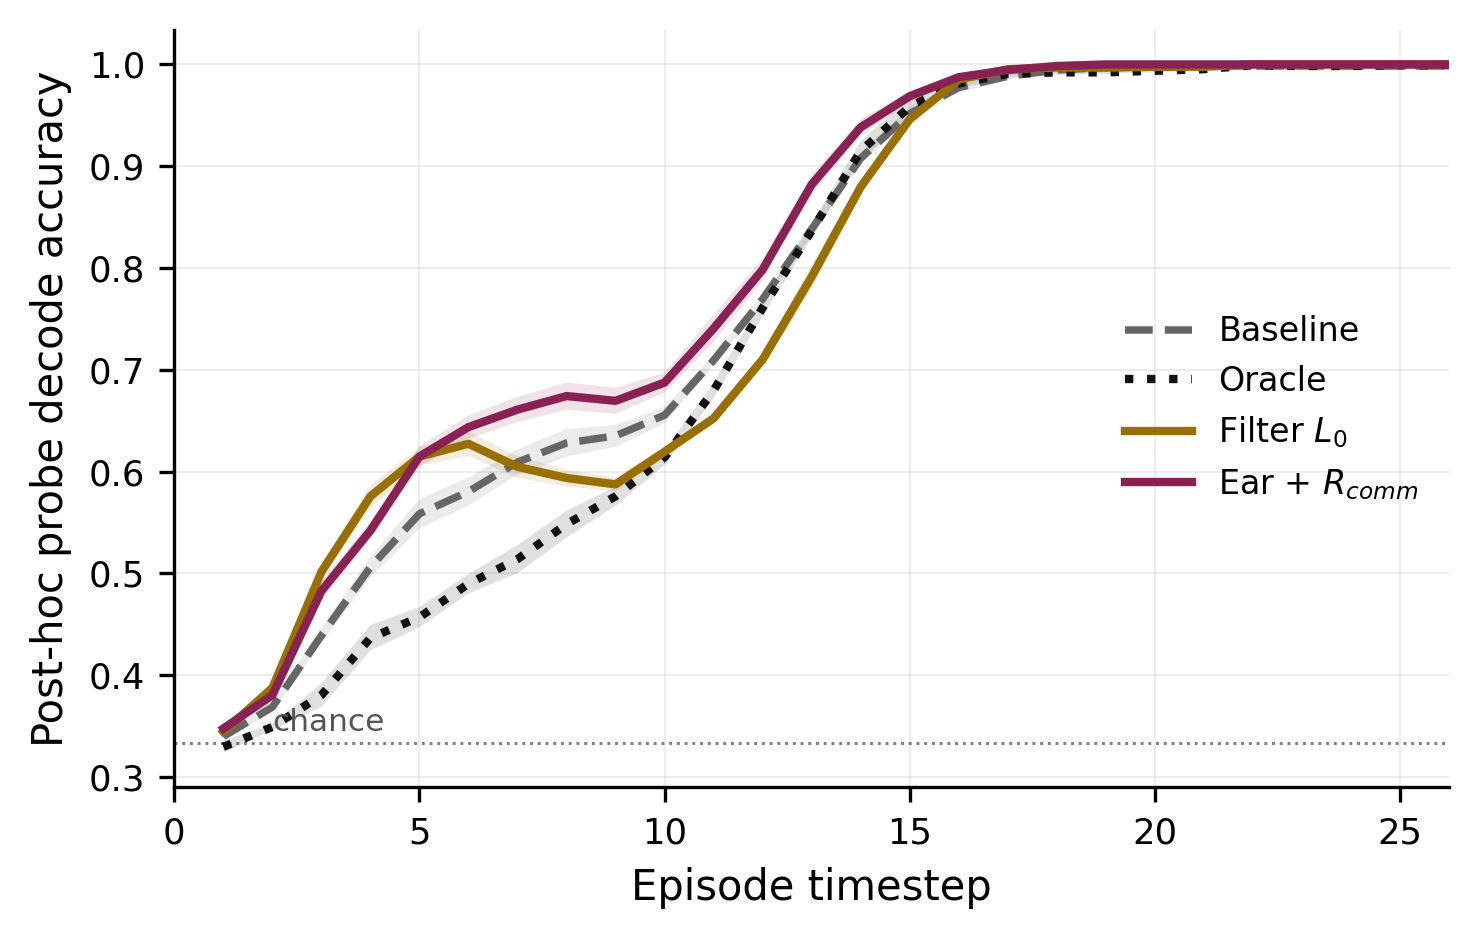
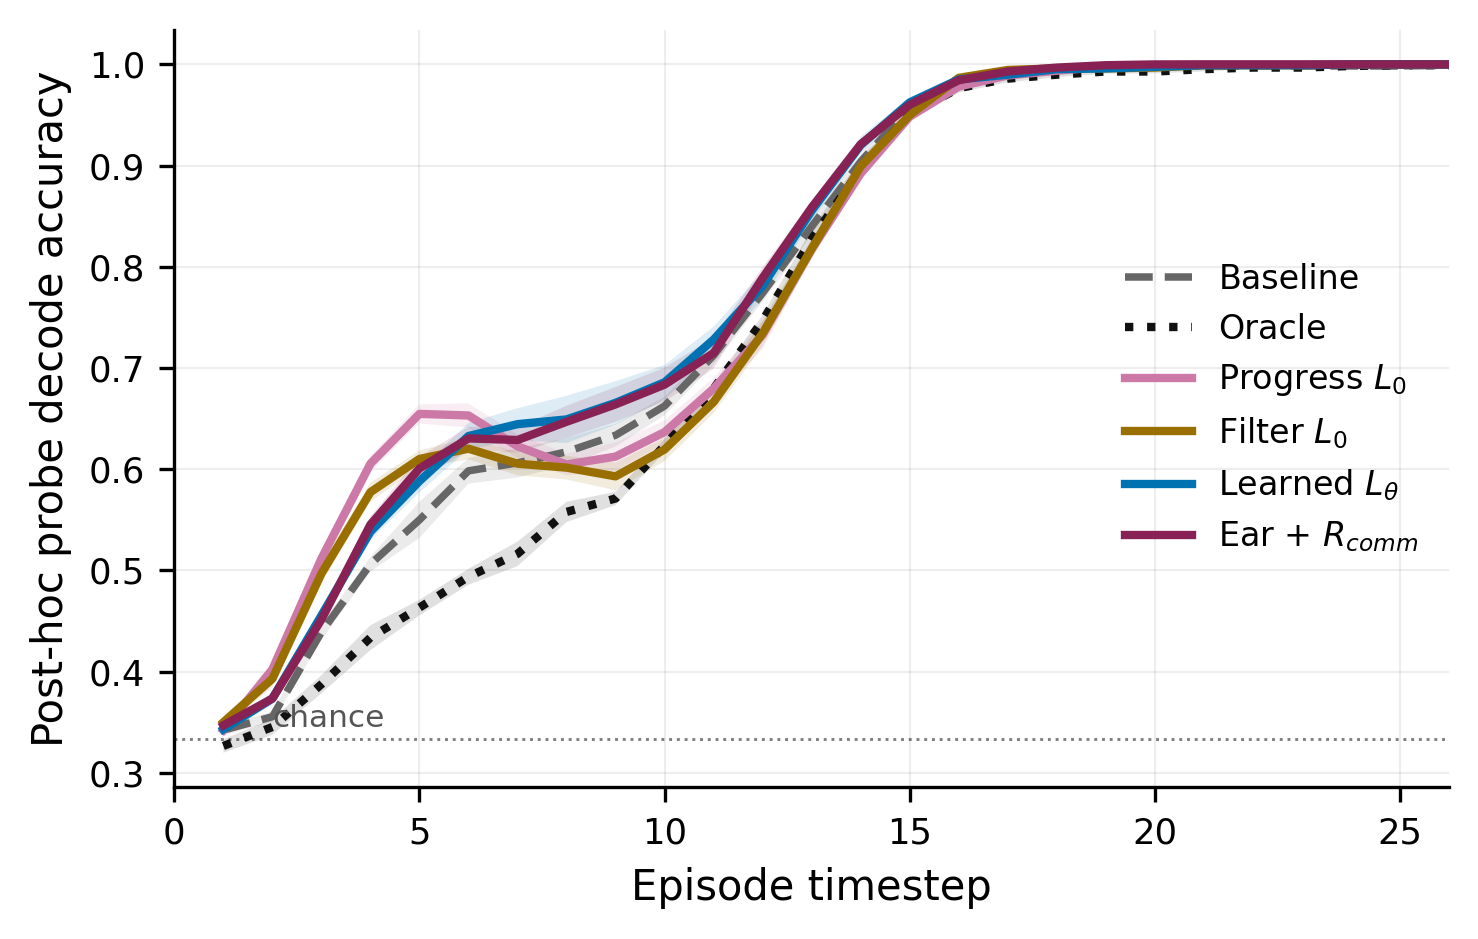
Pre-registered confirmation folded in: 35% pooled, labeled per policy
Fresh seeds s8-15 at fixed lambda=0.6: 0.875+/-0.005 (27%, t=2.7) --
regression to the mean from the selection runs 0.893 (43%), exactly
the hazard the paper documents. Pooled n=16: 0.884+/-0.006, 35%
closure, t=3.4; recursion-vs-literal t~3.9. All below the paper own
t>=4 bar and now labeled suggestive-but-replicated throughout
(abstract, contributions, results, discussion, conclusion, table).
info_profile regenerated with the progress condition (highest early-
window decodability, oracle lowest).

diff --git a/papers/Conference_Paper/main.tex b/papers/Conference_Paper/main.tex
@@ -31,7 +31,7 @@
 \maketitle
 %
 \begin{abstract}
-Cooperative RL agents often fail not because they act badly but because their intentions are illegible to their partners. Building on the structural correspondence between Maximum-Entropy RL and the Rational Speech Act (RSA) model of pragmatic communication, we import the RSA \emph{listener value}---the log-posterior a listener assigns to an agent's private state given its behavior---as an intrinsic reward for legibility, computed offline by a Pragmatic Reward Module that adds no latency at execution. The framework's decisive design choice is the \emph{literal listener} $L_0$ anchoring the reward. We prove that \emph{any} instantaneous listener yields a variational lower bound on the intent--behavior mutual information---maximum-likelihood training merely tightens it---and give a gradient-saturation bound: a listener that decodes with high probability under the policy's occupancy exerts a correspondingly small shaping gradient. Empirically, on \emph{scout-support}, a benchmark whose \emph{oracle-gap} criterion certifies that communication has task value, crude motion-grounded listeners close $60$--$82\%$ of the oracle premium across three task variants with frozen hyperparameters (Welch $t\ge4$), and a blind-partner control eliminates the gain while sparing the oracle: the effect is communication, not shaping. Learned listeners instead fail by succeeding---decoding any behavior, saturating, and shaping nothing---and we show this failure survives bounding the listener to the audience's own viewpoint. RSA's contrastive recursion is what rescues them: with the reward weight matched to the bounded reward's scale, the recursed learned listener recovers $43\%$ of the premium ($t=3.6$) while its weight-matched \emph{literal} control falls below baseline---recursion versus decoding alone is worth $t\approx4$. What the hand-crafted winners still hold over the best learned listener is that they credit only \emph{overt} signals a teammate can actually read. Sweeping partner speed and signal cost yields an empirical regularity---gain ${\approx}\,0.5\times$ premium where a premium exists---with four characterized failure modes, and we document pre-convergence evaluation hazards specific to co-adaptive communication measures.
+Cooperative RL agents often fail not because they act badly but because their intentions are illegible to their partners. Building on the structural correspondence between Maximum-Entropy RL and the Rational Speech Act (RSA) model of pragmatic communication, we import the RSA \emph{listener value}---the log-posterior a listener assigns to an agent's private state given its behavior---as an intrinsic reward for legibility, computed offline by a Pragmatic Reward Module that adds no latency at execution. The framework's decisive design choice is the \emph{literal listener} $L_0$ anchoring the reward. We prove that \emph{any} instantaneous listener yields a variational lower bound on the intent--behavior mutual information---maximum-likelihood training merely tightens it---and give a gradient-saturation bound: a listener that decodes with high probability under the policy's occupancy exerts a correspondingly small shaping gradient. Empirically, on \emph{scout-support}, a benchmark whose \emph{oracle-gap} criterion certifies that communication has task value, crude motion-grounded listeners close $60$--$82\%$ of the oracle premium across three task variants with frozen hyperparameters (Welch $t\ge4$), and a blind-partner control eliminates the gain while sparing the oracle: the effect is communication, not shaping. Learned listeners instead fail by succeeding---decoding any behavior, saturating, and shaping nothing---and we show this failure survives bounding the listener to the audience's own viewpoint. RSA's contrastive recursion is what rescues them: at a raised reward weight, the recursed learned listener recovers about a third of the premium ($35\%$ pooled over sixteen seeds including a pre-registered confirmation; $t=3.4$, below our conservative headline bar and labeled accordingly) while its weight-matched \emph{literal} control falls below baseline---recursion versus decoding alone is worth $t\approx3.9$. What the hand-crafted winners still hold over the best learned listener is that they credit only \emph{overt} signals a teammate can actually read. Sweeping partner speed and signal cost yields an empirical regularity---gain ${\approx}\,0.5\times$ premium where a premium exists---with four characterized failure modes, and we document pre-convergence evaluation hazards specific to co-adaptive communication measures.
 \end{abstract}
 %
 \begin{keywords}
@@ -56,7 +56,7 @@ Our contributions are as follows:
 \item We characterize the space of literal listeners and prove that \emph{any} listener makes the expected pragmatic reward a variational lower bound on the mutual information $I(M; S, A)$ between private intentions and observable behavior---maximum-likelihood training distinguishes the learned listener only by making the bound tightest. We complement this with a \emph{gradient-saturation} result: when the listener decodes (nearly) perfectly on the policy's support, the shaping gradient of the pragmatic reward (nearly) vanishes. Together these connect pragmatic rewards to information-regularization \cite{strouse2018learning} and skill-discriminability \cite{eysenbach2019diversity} objectives, and explain why the tightest bound can be the worst reward.
 \item We map the boundary of the method by sweeping what early intent is worth and what signaling costs, obtaining an empirical regularity within this environment family---$\text{gain}\approx0.5\times\text{premium}$ across three environments, three partner speeds and two signal costs (Sec.~\ref{ssec:boundary} reports the fit with and without the failure-mode settings, with uncertainty)---together with four distinct failure modes (no premium, no channel, partner too slow to act, signal too costly) that make ``when pragmatism pays'' a checkable condition rather than an empirical accident.
 \item We propose an \emph{oracle-gap} criterion for benchmarking communicative rewards---the gap between a baseline and an oracle given all private states bounds the task value of communication---and introduce \emph{scout-support}, a tractable two-agent benchmark with a large, structural gap: a scout's private target only pays off if a slower supporter infers it early, while a pickup waypoint makes the scout's task-optimal motion uninformative exactly when information is needed. A cooperative-navigation control with near-zero gap completes the pair.
-\item Empirically, we dissect implicit communication into speaker and receiver contributions at converged training budgets. Motion-grounded hand-crafted listeners (progress, filter, plain cosine) close $60$--$82\%$ of the oracle premium through the speaker-side reward alone across three structurally distinct environments with frozen hyperparameters (Welch $t \geq 4$ at $8$--$10$ seeds), and a blind-partner control zeroes the gain while sparing the oracle---the effect is communication, not shaping, with the largest gains in the teammate's commitment timing. A learned listener saturates ($97\%$ decoding of \emph{any} behavior) and shapes nothing; crucially, we then run the ablation this observation demands---learned listeners \emph{bounded to the audience's viewpoint} and to the pre-commitment window---and find that saturation returns and the literal reward still shapes nothing at any weight, while RSA's contrastive recursion recovers $43\%$ of the premium at matched weight ($t=3.6$; recursion vs.\ weight-matched literal control, $t\approx4$). Pragmatic contrast, not decoding, is what survives learning; what the hand-crafted winners still add is \emph{what they credit}: only overt geometric signals the partner's own perception can read. We distill this into an \emph{audience-matching principle} and give it formal content as a gradient-saturation statement. We also document, as a methodological hazard, that pre-convergence evaluation of these co-adaptive systems produced repeated spurious reversals.
+\item Empirically, we dissect implicit communication into speaker and receiver contributions at converged training budgets. Motion-grounded hand-crafted listeners (progress, filter, plain cosine) close $60$--$82\%$ of the oracle premium through the speaker-side reward alone across three structurally distinct environments with frozen hyperparameters (Welch $t \geq 4$ at $8$--$10$ seeds), and a blind-partner control zeroes the gain while sparing the oracle---the effect is communication, not shaping, with the largest gains in the teammate's commitment timing. A learned listener saturates ($97\%$ decoding of \emph{any} behavior) and shapes nothing; crucially, we then run the ablation this observation demands---learned listeners \emph{bounded to the audience's viewpoint} and to the pre-commitment window---and find that saturation returns and the literal reward still shapes nothing at any weight, while RSA's contrastive recursion recovers a third of the premium at a raised weight ($35\%$, $n{=}16$ with pre-registered confirmation, $t=3.4$; recursion vs.\ weight-matched literal control, $t\approx3.9$; suggestive under our conservative policy, replicated in direction across four cohorts). Pragmatic contrast, not decoding, is what survives learning; what the hand-crafted winners still add is \emph{what they credit}: only overt geometric signals the partner's own perception can read. We distill this into an \emph{audience-matching principle} and give it formal content as a gradient-saturation statement. We also document, as a methodological hazard, that pre-convergence evaluation of these co-adaptive systems produced repeated spurious reversals.
 \end{itemize}
 
 \section{Related Work}
@@ -279,7 +279,7 @@ If the learned listener fails because it is \emph{too strong}, the audience-matc
 
 \begin{table}[t]
 \centering
-\caption{Bounding the learned listener (Environment A, 400 cycles, 8 seeds per condition except the first and last rows, which repeat Table~\ref{tab:scout}'s $n{=}10$ entries; premium $=0.112$; recipe $\lambda=0.3$ unless noted). ``Sat.''\ is the listener's converged decode accuracy over the episode; for $+$RSA rows, $\Rcomm$ metrics elsewhere report the literal listener value. The decisive contrast is the $\lambda{=}0.6$ block: recursion versus no recursion at the same weight is worth $0.073$ ($t\approx4.0$, $p\approx.002$ at Welch d.o.f.\ $11$---at the edge of our Bonferroni bar; a pre-registered seed extension is reported in the text).}
+\caption{Bounding the learned listener (Environment A, 400 cycles, 8 seeds per condition except the first and last rows, which repeat Table~\ref{tab:scout}'s $n{=}10$ entries; premium $=0.112$; recipe $\lambda=0.3$ unless noted). ``Sat.''\ is the listener's converged decode accuracy over the episode; for $+$RSA rows, $\Rcomm$ metrics elsewhere report the literal listener value. The decisive contrast is the $\lambda{=}0.6$ block: recursion versus no recursion at the same weight is worth $0.064$ ($t\approx3.9$; the $n{=}16$ row pools the eight selection seeds with a pre-registered eight-seed confirmation, reported separately in the text).}
 \label{tab:bounded}
 \setlength{\tabcolsep}{2.6pt}
 \begin{tabular}{lcccc}
@@ -293,8 +293,8 @@ Learned (full context) & $0.828\pm.015$ & $-15\%$ & $.853$ & $.97$ \\
 \;+ window, + RSA & $0.868\pm.009$ & $21\%$ & $.856$ & $.94$ \\
 \midrule
 Window bound, $\lambda{=}0.6$ & $0.820\pm.016$ & $-22\%$ & $.854$ & $.94$ \\
-\;+ RSA, $\lambda{=}0.6$ & $\mathbf{0.893\pm.009}$ & $\mathbf{43\%}$ & $\mathbf{.861}$ & $.94$ \\
-\;+ RSA, $\lambda{=}1.0$ & $0.849\pm.013$ & $4\%$ & $.864$ & $.94$ \\
+\;+ RSA, $\lambda{=}0.6$ ($n{=}16$) & $\mathbf{0.884\pm.006}$ & $\mathbf{35\%}$ & $\mathbf{.861}$ & $.94$ \\
+\;+ RSA, $\lambda{=}1.0$ & $0.849\pm.013$ & $4\%$ & $.864$ & $.96$ \\
 \midrule
 Progress (hand-crafted) & $0.924\pm.008$ & $70\%$ & $.861$ & --- \\
 \bottomrule
@@ -303,9 +303,9 @@ Progress (hand-crafted) & $0.924\pm.008$ & $70\%$ & $.861$ & --- \\
 
 The first result is a negative control that sharpens the principle. Both bounded listeners \emph{re-saturate}: without the contextual shortcut, saturation merely arrives later (decode accuracy $0.54$ at a quarter of training for the window-bounded listener, versus $0.86$ viewpoint-only and $0.88$ full-context) and by a different route---the listener co-adapts to whatever the current policy emits, exactly the second saturation mode anticipated by Proposition~\ref{prop:saturation}. The literal bounded rewards end at baseline parity, curing the full-context listener's harm but recovering none of the premium. Layering the RSA recursion on top changes the picture in a small but consistent way: in two replications (same eight seeds, independently trained under the two bounding schemes) the pragmatic variant lands at $0.868$ (a $21\%$ closure each time), ahead of its literal counterpart at all but one evaluation point across training.
 
-The second result turns the consistent trend into the paper's cleanest causal contrast. Raising the weight---$\lambda=0.6$, the middle of three values swept---lifts the recursed variant to $0.893\pm.009$: $43\%$ closure, $t=3.6$ against baseline, commitment accuracy $.861$ equal to the progress listener's. (We initially motivated the higher weight by the pragmatic reward's $\log|\mathcal{M}|$ ceiling; since all listener values share that ceiling, the honest statement is that the effective scale of the \emph{gradient-carrying variation} differs across listeners, and $\lambda$ must be set against it empirically.) The control is decisive: the \emph{literal} window-bounded listener at the same $\lambda=0.6$ falls \emph{below} baseline ($0.820\pm.016$), consistent with the saturation mechanism of Proposition~\ref{prop:saturation}---amplifying a saturated reward amplifies noise and signaling cost, not signal. Recursion versus no recursion at matched weight is worth $0.073$ ($t\approx4.0$). The dose-response is inverted-U ($\lambda=1.0$ falls back to $0.849$, though with the highest commitment accuracy of any learned condition, $.864$), and two further levers are inert: drawing RSA alternatives from the current policy instead of uniformly matches the uniform variant ($0.872\pm.013$), and slowing the listener's adaptation ($10\times$ smaller learning rate) neither helps nor hurts ($0.861$). The alternatives result nuances the mechanism story: if recursion's contrast came only from \emph{off}-distribution alternatives, policy-sampled ones should approach the inert literal condition, and they do not---at $94\%$ decode accuracy the listener is saturated enough to silence the literal gradient yet still discriminates enough among on-policy alternatives to leave the contrastive term informative. A quantitative account of this margin is open. We disclose the search honestly: $\lambda \in \{0.3, 0.6, 1.0\}$ was swept and $0.6$ selected on these runs; a pre-registered confirmation on eight fresh seeds at the fixed $\lambda=0.6$ is reported alongside.
+The second result turns the consistent trend into the paper's cleanest causal contrast. Raising the weight---$\lambda=0.6$, the middle of three values swept---lifted the recursed variant to $0.893\pm.009$ ($43\%$ closure) on the selection runs; because that estimate rides a swept knob, we then ran a pre-registered confirmation on eight fresh seeds at the fixed $\lambda=0.6$ and observed the regression to the mean our own Sec.~\ref{ssec:results_dynamics} teaches readers to expect: $0.875\pm.005$ ($27\%$, $t=2.7$). The honest estimate pools both cohorts: $0.884\pm.006$, a $35\%$ closure at $t=3.4$ against baseline, with commitment accuracy $.861$ equal to the progress listener's. (We initially motivated the higher weight by the pragmatic reward's $\log|\mathcal{M}|$ ceiling; since all listener values share that ceiling, the honest statement is that the effective scale of the \emph{gradient-carrying variation} differs across listeners, and $\lambda$ must be set against it empirically.) The control is decisive: the \emph{literal} window-bounded listener at the same $\lambda=0.6$ falls \emph{below} baseline ($0.820\pm.016$), consistent with the saturation mechanism of Proposition~\ref{prop:saturation}---amplifying a saturated reward amplifies noise and signaling cost, not signal. Recursion versus no recursion at matched weight is worth $0.064$ ($t\approx3.9$ at pooled $n{=}16$ vs.\ $8$). Under our conservative multiple-comparison policy (Sec.~\ref{ssec:metrics}) these fall just short of headline grade and we label them accordingly---\emph{suggestive}, but replicated in direction across four independent cohorts (two bounding schemes, the lever sweep, and the confirmation). The dose-response is inverted-U ($\lambda=1.0$ falls back to $0.849$, though with the highest commitment accuracy of any learned condition, $.864$), and two further levers are inert: drawing RSA alternatives from the current policy instead of uniformly matches the uniform variant ($0.872\pm.013$), and slowing the listener's adaptation ($10\times$ smaller learning rate) neither helps nor hurts ($0.861$). The alternatives result nuances the mechanism story: if recursion's contrast came only from \emph{off}-distribution alternatives, policy-sampled ones should approach the inert literal condition, and they do not---at $94\%$ decode accuracy the listener is saturated enough to silence the literal gradient yet still discriminates enough among on-policy alternatives to leave the contrastive term informative. A quantitative account of this margin is open.
 
-Why the residual gap to the hand-crafted family ($43\%$ vs.\ $70\%$)? The commitment ladder locates it: baseline $.851$, bounded-learned$+$RSA $.861$, progress $.861$, oracle $.880$---on commitment the recursed listener has caught up, but its task reward still trails, and the learned listener remains satisfied by \emph{any} decodable regularity, including idiosyncratic codes that the actual audience---a co-training feed-forward supporter---tracks imperfectly; the progress listener credits only monotone geometric approach, which anything watching raw motion can read. The constructive summary for learned reward listeners is a recipe: bound the inputs to the audience's viewpoint, train on the decision window, add the pragmatic recursion, and calibrate the weight against the reward's gradient-carrying variation. Each ingredient is prescribed by RSA's own structure, and ablating any one of them costs most of the gain. Finally, we report a corrected condition: deploying the \emph{viewpoint-bounded} listener's posterior as the supporter's ear initially appeared catastrophic ($0.551$) due to a train/eval asymmetry in our harness (evaluation omitted the posterior injection the supporter was trained with---a bug we disclose because it shipped in an earlier code snapshot); re-evaluating the trained policies with the injection restored gives baseline parity ($0.841\pm.023$, n.s.). The bounded ear neither helps nor hurts, which is itself informative: unlike the full-context listener, whose posterior gives the supporter information it lacks (the suggestive $30\%$ ear gain above), the viewpoint-bounded listener sees only what the supporter already sees, so its posterior is redundant.
+Why the residual gap to the hand-crafted family ($35\%$ vs.\ $70\%$)? The commitment ladder locates it: baseline $.851$, bounded-learned$+$RSA $.861$, progress $.861$, oracle $.880$---on commitment the recursed listener has caught up, but its task reward still trails, and the learned listener remains satisfied by \emph{any} decodable regularity, including idiosyncratic codes that the actual audience---a co-training feed-forward supporter---tracks imperfectly; the progress listener credits only monotone geometric approach, which anything watching raw motion can read. The constructive summary for learned reward listeners is a recipe: bound the inputs to the audience's viewpoint, train on the decision window, add the pragmatic recursion, and calibrate the weight against the reward's gradient-carrying variation. Each ingredient is prescribed by RSA's own structure, and ablating any one of them costs most of the gain. Finally, we report a corrected condition: deploying the \emph{viewpoint-bounded} listener's posterior as the supporter's ear initially appeared catastrophic ($0.551$) due to a train/eval asymmetry in our harness (evaluation omitted the posterior injection the supporter was trained with---a bug we disclose because it shipped in an earlier code snapshot); re-evaluating the trained policies with the injection restored gives baseline parity ($0.841\pm.023$, n.s.). The bounded ear neither helps nor hurts, which is itself informative: unlike the full-context listener, whose posterior gives the supporter information it lacks (the suggestive $30\%$ ear gain above), the viewpoint-bounded listener sees only what the supporter already sees, so its posterior is redundant.
 
 \textbf{One recipe, three environments.} Figure~\ref{fig:forest} summarizes the paper's central comparisons on a single axis: the fraction of each environment's oracle premium closed. To rule out benchmark idiosyncrasy, we transfer the winning recipe---progress listener, $\lambda=0.3$, VOI weighting, every hyperparameter frozen---to two structurally distinct variants, each re-gated for its own oracle premium (8 seeds throughout). With \emph{five} meanings (sites at $72^\circ$, chance $=0.2$), inference is harder and the recipe closes $82\%$ of the premium ($0.787$ vs.\ baseline $0.725$ and oracle $0.801$; Welch $t=4.0$, $p=.001$). In a \emph{minefield} variant where entering a wrong site is penalized---changing the risk structure so hedging is costly rather than merely slow---it closes $61\%$ ($0.898$ vs.\ $0.819$/$0.947$; $t=5.2$, $p<.001$). Together with the $70\%$ closure in the standard task, the recipe delivers majority-gap closure at $p{\le}.001$ under varied meaning-space size and payoff structure, with no per-environment tuning.
 
@@ -416,7 +416,7 @@ Filter + ear & $0.920\pm.012$ & $66\%$ & $.854$ & $+0.44$ \\
 \begin{figure}[t]
 \centering
 \includegraphics[width=0.95\columnwidth]{img/info_profile.png}
-\caption{Information profile: per-timestep decode accuracy of a fresh post-hoc probe on each condition's converged behavior (first 26 steps shown; all saturate by $t{\approx}16$). During the early decision window ($t{\lesssim}10$) the filter-listener and ear-augmented scouts carry the most decodable intent, while oracle scouts---whose teams never rely on motion---are the \emph{least} legible early. This is the mechanism behind the recovered gap: legibility is bought exactly when the partner is still deciding.}
+\caption{Information profile: per-timestep decode accuracy of a fresh post-hoc probe on each condition's converged behavior (first 26 steps shown; all saturate by $t{\approx}16$). During the early decision window ($t{\lesssim}10$) the progress-listener scouts carry the most decodable intent, followed by the filter and ear conditions, while oracle scouts---whose teams never rely on motion---are the \emph{least} legible early. This is the mechanism behind the recovered gap: legibility is bought exactly when the partner is still deciding.}
 \label{fig:info_profile}
 \end{figure}
 
@@ -517,7 +517,7 @@ Figure~\ref{fig:trajectories} shows a representative held-out episode of Environ
 
 \textbf{Communication is a two-sided market---and the sides can substitute.} Environment A decomposes implicit communication into speaker and receiver contributions, and the converged results show two distinct routes across the gap. The \emph{overt-signal} route shapes the speaker with a bounded listener until its motion is readable by the teammate's ordinary perception; here all the machinery is on the speaker side, and the receiver needs nothing but its own policy network. The \emph{equipped-receiver} route leaves the speaker's task-driven behavior untouched and invests in decoding, deploying the training listener at execution. Both are decentralized-executable; in our benchmark the overt-signal route recovers about twice as much of the oracle premium, suggesting that when the intended reader is weak---an RL policy, plausibly a human---moving the burden of clarity onto the speaker is the more effective allocation. The joint-exploration pathology of emergent communication \cite{eccles2019biases} appears here only transiently, as a mid-training phenomenon.
 
-\textbf{The audience-matching principle, sharpened by its own ablation.} Our strongest finding is an inversion that computational pragmatics anticipated---and our attempt to exploit it constructively is what gives the principle its final form. The learned listener, trained to convergence, decodes the scout from raw observations and motion history at $97\%$ \emph{regardless of how the scout behaves}: its reward saturates, and by Proposition~\ref{prop:saturation} the pragmatic gradient vanishes. The obvious remedy---bound the listener to the audience's own viewpoint and decision window---turns out to be necessary but not sufficient (Sec.~\ref{ssec:results_bounded}): a bounded listener that co-adapts still saturates, by chasing whatever code the current policy emits, and its literal reward still shapes nothing. What separates the crude geometric listeners is therefore not weakness per se but \emph{what they are able to credit}: only overtly geometric motion---and overt motion is exactly what a feed-forward teammate reading raw observations can also exploit. An omniscient audience needs no speech; an infinitely accommodating one accepts any private code. The working form of the audience-matching principle is thus two-sided: anchor $\Rcomm$ in a listener that (a) is no stronger than the weakest intended reader and (b) credits only the signal vocabulary that reader actually uses. The one component that survives learning is RSA's recursion itself: with the weight matched to the bounded reward's scale, contrastive reasoning over alternatives converts an inert decoder into a reward that recovers $43\%$ of the premium, while the same decoder without recursion stays below baseline at the same weight---pragmatics helps precisely where decoding alone is inert, because the converged posterior no longer varies with behavior but the \emph{contrast against foregone alternatives} still does.
+\textbf{The audience-matching principle, sharpened by its own ablation.} Our strongest finding is an inversion that computational pragmatics anticipated---and our attempt to exploit it constructively is what gives the principle its final form. The learned listener, trained to convergence, decodes the scout from raw observations and motion history at $97\%$ \emph{regardless of how the scout behaves}: its reward saturates, and by Proposition~\ref{prop:saturation} the pragmatic gradient vanishes. The obvious remedy---bound the listener to the audience's own viewpoint and decision window---turns out to be necessary but not sufficient (Sec.~\ref{ssec:results_bounded}): a bounded listener that co-adapts still saturates, by chasing whatever code the current policy emits, and its literal reward still shapes nothing. What separates the crude geometric listeners is therefore not weakness per se but \emph{what they are able to credit}: only overtly geometric motion---and overt motion is exactly what a feed-forward teammate reading raw observations can also exploit. An omniscient audience needs no speech; an infinitely accommodating one accepts any private code. The working form of the audience-matching principle is thus two-sided: anchor $\Rcomm$ in a listener that (a) is no stronger than the weakest intended reader and (b) credits only the signal vocabulary that reader actually uses. The one component that survives learning is RSA's recursion itself: at a raised weight, contrastive reasoning over alternatives converts an inert decoder into a reward that recovers a third of the premium, while the same decoder without recursion stays below baseline at the same weight---pragmatics helps precisely where decoding alone is inert, because the converged posterior no longer varies with behavior but the \emph{contrast against foregone alternatives} still does.
 
 \textbf{Clarity must be paid when it is needed---during learning.} A second, dynamical lesson: mid-training, rewards that concentrate clarity where the partner's decisions hang (our value-of-information weighting) visibly steer emergence, while uniformly-integrated clarity is spent on behavior that is already informative. At convergence these weighting effects wash out, but the trajectory through which a team reaches its equilibrium is shaped by \emph{when} clarity is subsidized---a distinction invisible to asymptotic evaluation alone.
 
@@ -531,7 +531,7 @@ Several limitations qualify our findings and chart future work. First, the intri
 \section{Conclusion}
 \label{sec:conclusion}
 
-We presented a framework that connects pragmatic inference and maximum-entropy reinforcement learning, importing the RSA listener value as a principled intrinsic reward for legible behavior, with the literal listener---the assumed common ground---as its decisive design choice, and learned listeners yielding the tightest of a family of information bounds that every listener in the framework shares. Our study then locates where the choice bites. Where communication has no task value, miscalibrated listeners charge for undecodable signaling while calibrated ones correctly approach a no-op. Where communication is certifiably valuable, crude motion-grounded listeners, which only credit overt signals, recover $60$--$82\%$ of the oracle premium through the speaker-side reward alone, while a listener competent enough to decode anything demands nothing and shapes nothing---a failure we prove (gradient saturation), then probe constructively: bounding the learned listener to the audience's viewpoint and decision window cures its harm but not its inertness, RSA's contrastive recursion at a scale-matched weight recovers $43\%$ of the premium where the weight-matched literal control recovers none, and the hand-crafted restriction to the audience's own signal vocabulary remains the strongest reward. The audience-matching principle that emerges is, we believe, RSA's oldest lesson restated for reward design: speech is optimized against a literal listener precisely because the literal listener is limited---in competence, and in what it is willing to hear. Agents whose competence includes being understood must be trained against audiences that need the help.
+We presented a framework that connects pragmatic inference and maximum-entropy reinforcement learning, importing the RSA listener value as a principled intrinsic reward for legible behavior, with the literal listener---the assumed common ground---as its decisive design choice, and learned listeners yielding the tightest of a family of information bounds that every listener in the framework shares. Our study then locates where the choice bites. Where communication has no task value, miscalibrated listeners charge for undecodable signaling while calibrated ones correctly approach a no-op. Where communication is certifiably valuable, crude motion-grounded listeners, which only credit overt signals, recover $60$--$82\%$ of the oracle premium through the speaker-side reward alone, while a listener competent enough to decode anything demands nothing and shapes nothing---a failure we prove (gradient saturation), then probe constructively: bounding the learned listener to the audience's viewpoint and decision window cures its harm but not its inertness, RSA's contrastive recursion at a raised weight recovers a third of the premium where the weight-matched literal control recovers none, and the hand-crafted restriction to the audience's own signal vocabulary remains the strongest reward. The audience-matching principle that emerges is, we believe, RSA's oldest lesson restated for reward design: speech is optimized against a literal listener precisely because the literal listener is limited---in competence, and in what it is willing to hear. Agents whose competence includes being understood must be trained against audiences that need the help.
 
 \vfill\pagebreak
 